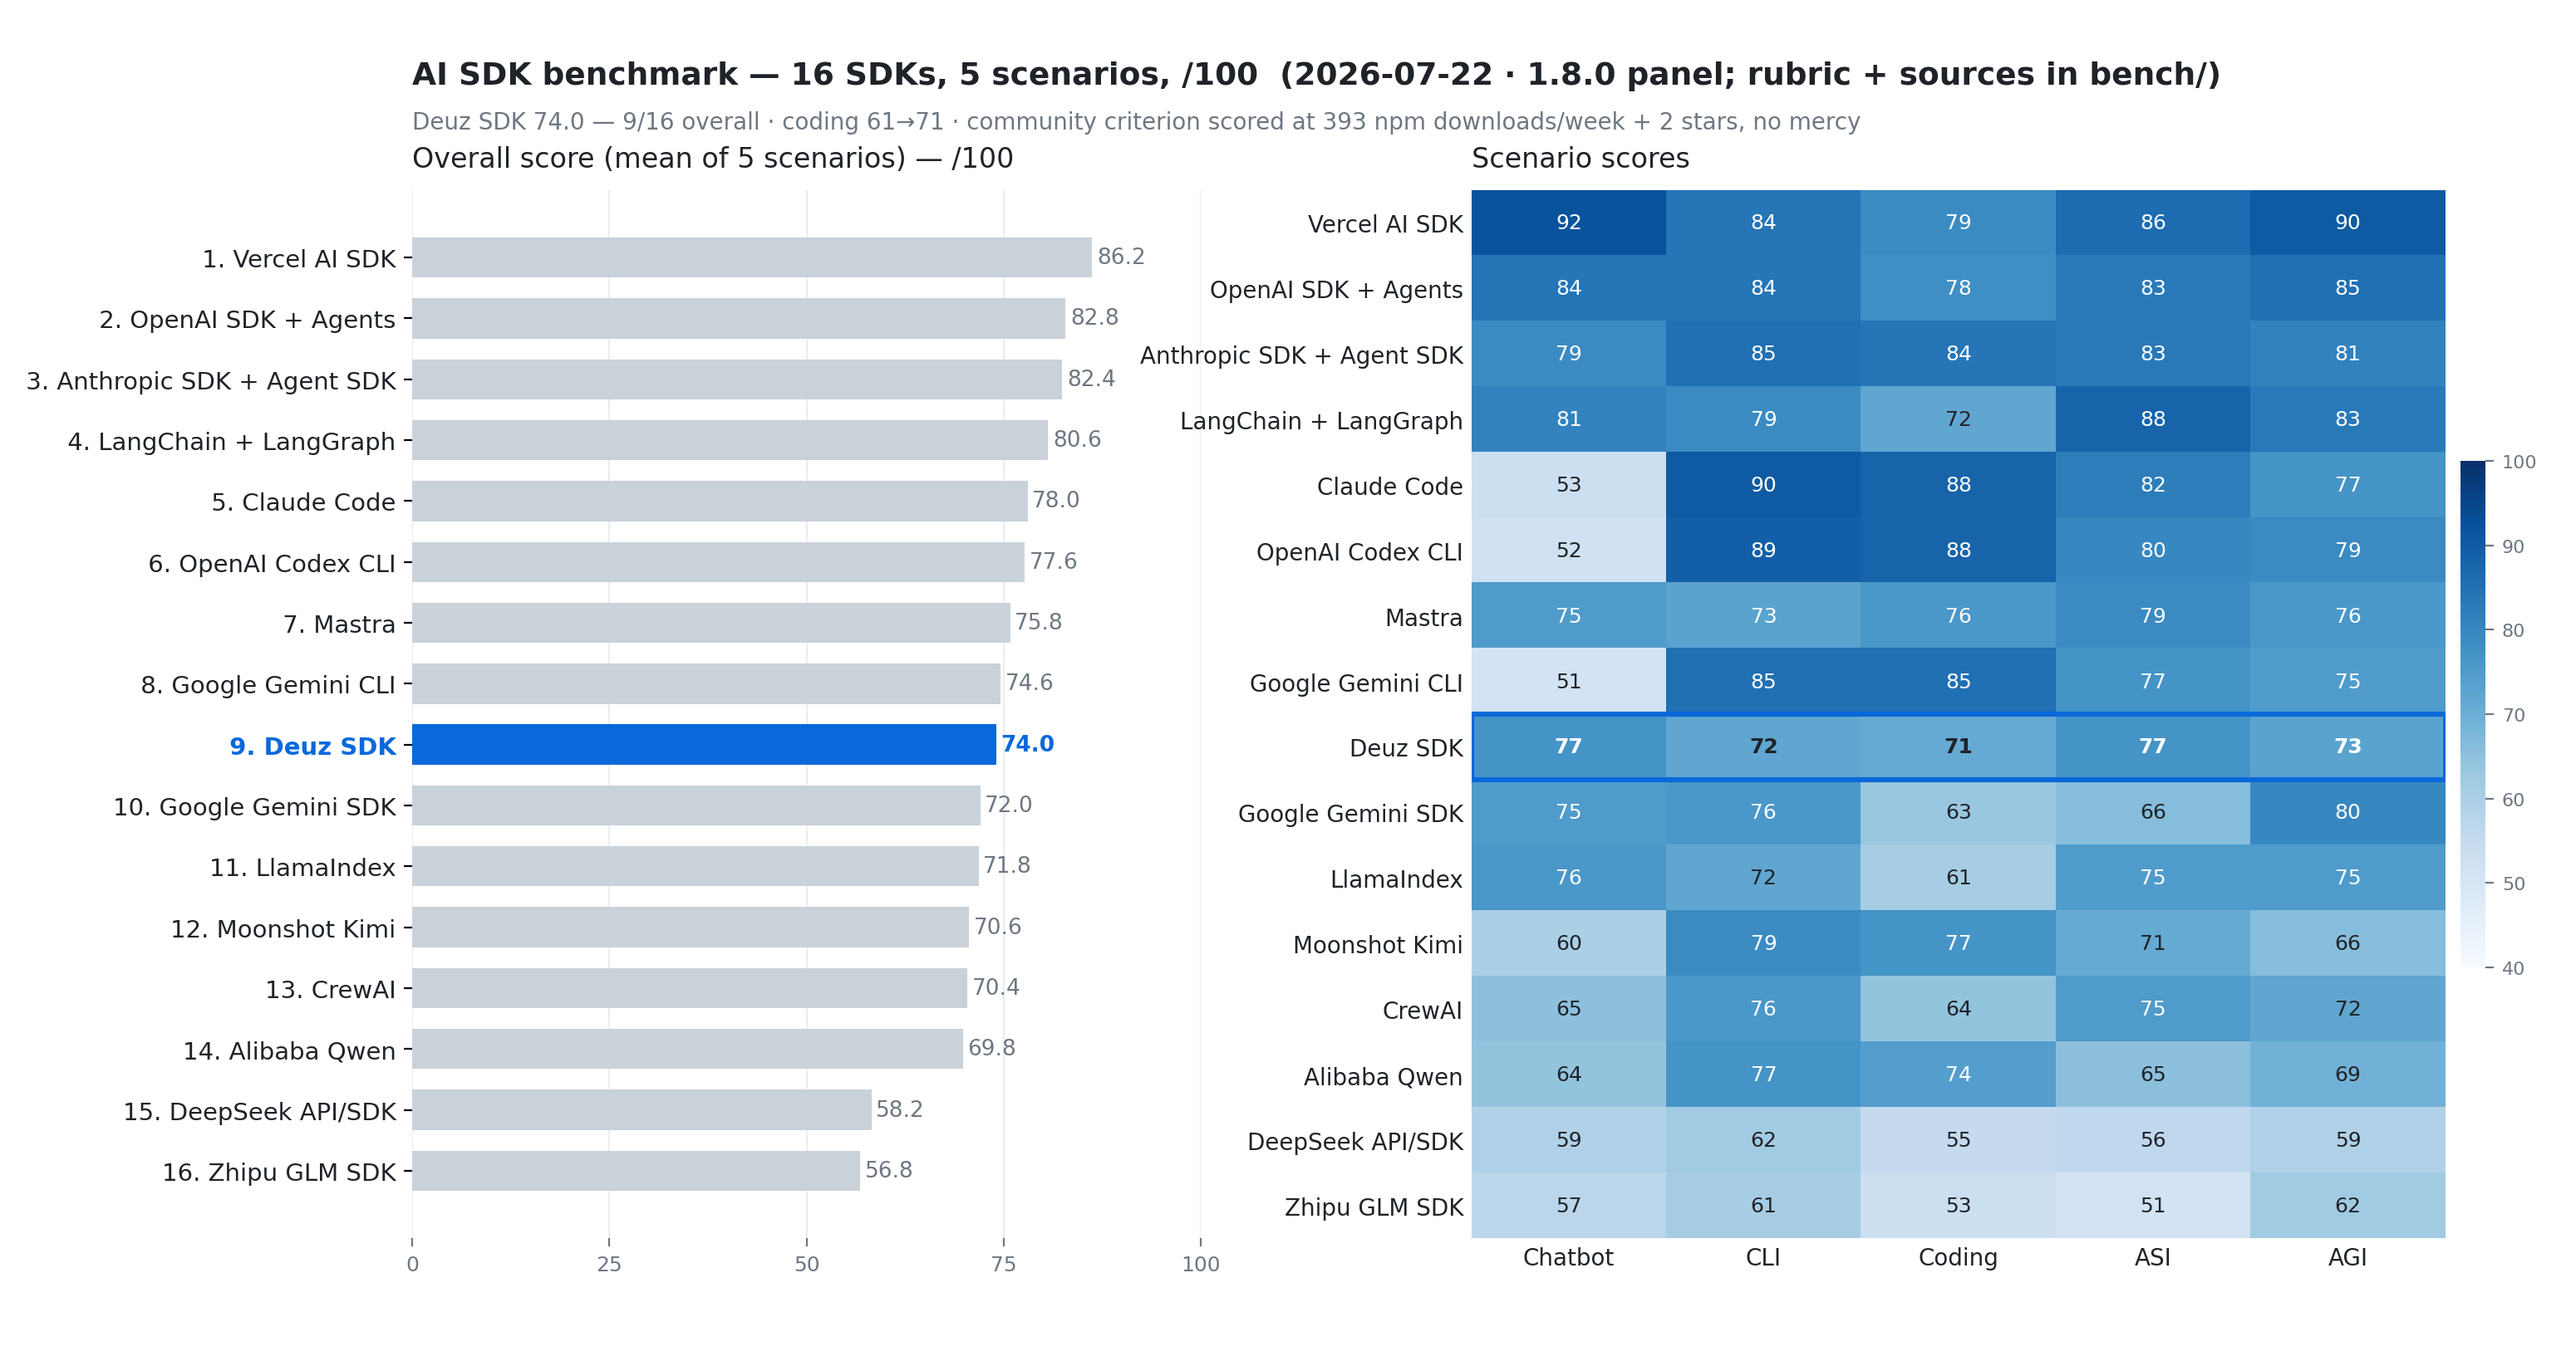
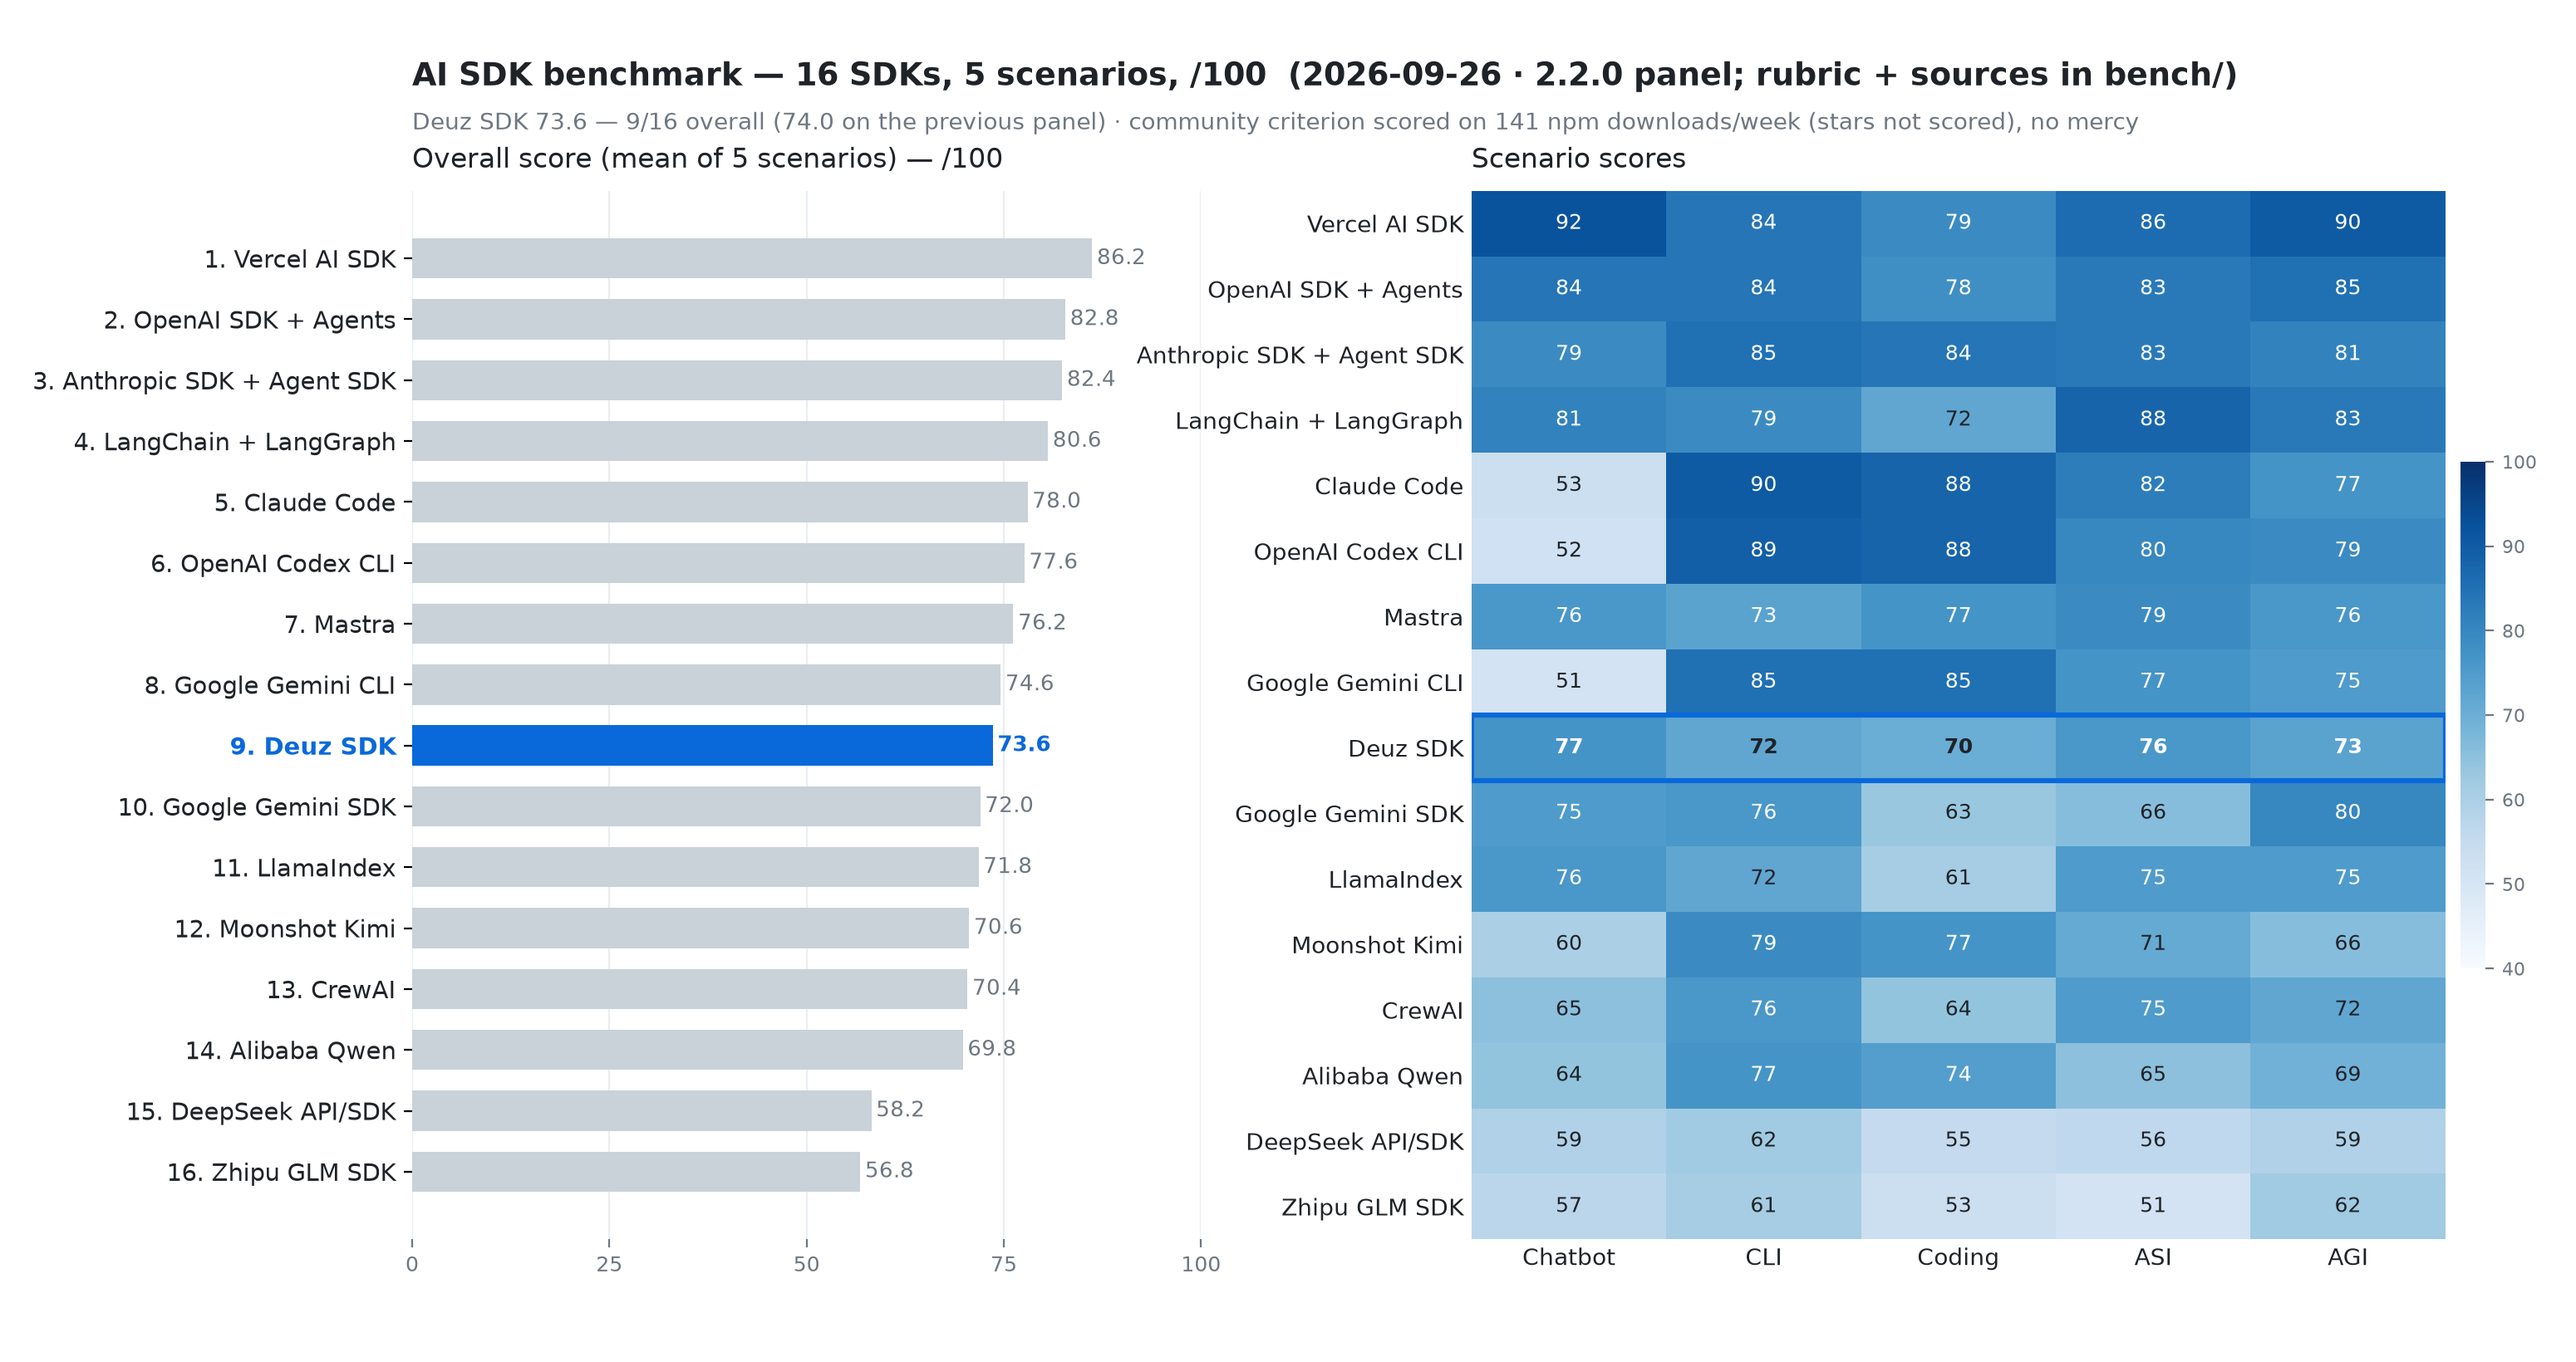
chore(assets): regenerate the benchmark and footprint charts for 2.2.0
chart.py now takes the ranking title, the Deuz headline and rank, and
the footprint subtitle from scores.json and results.json, instead of
hard-coded 1.8.0 text that would go stale. Every footprint bar names
the version it measured, and MB values keep their two decimals.

diff --git a/bench/chart.py b/bench/chart.py
@@ -1,7 +1,8 @@
 #!/usr/bin/env python3
 """Render the Deuz benchmark charts (matplotlib).
 
-Reads bench/scores.json (+ bench/results.json for the footprint panel) and writes:
+Reads bench/scores.json (+ bench/results.json for the footprint panel) and writes the
+charts below. Titles, headline, ranks and version labels all come from the JSON:
   assets/benchmark.png / assets/benchmark-dark.png   — /100 ranking + scenario heatmap
   assets/footprint.png / assets/footprint-dark.png   — install size + cold import (log scale)
 
@@ -10,6 +11,7 @@ Run: python bench/chart.py
 
 import json
 import os
+import re
 
 import matplotlib
 
@@ -55,7 +57,8 @@ def load(name):
 
 def ranking_chart(theme):
     t = THEMES[theme]
-    scores = sorted(load("scores.json")["scores"], key=lambda s: s["average"], reverse=True)
+    data = load("scores.json")
+    scores = sorted(data["scores"], key=lambda s: s["average"], reverse=True)
     names = [s["name"] for s in scores]
     avgs = [s["average"] for s in scores]
     matrix = np.array([[s[k] for k, _ in SCENARIOS] for s in scores], dtype=float)
@@ -117,9 +120,16 @@ def ranking_chart(theme):
     cbar.ax.tick_params(colors=t["muted"], labelsize=8)
     cbar.outline.set_visible(False)
 
-    fig.suptitle("AI SDK benchmark — 16 SDKs, 5 scenarios, /100  (2026-07-22 · 1.8.0 panel; rubric + sources in bench/)",
+    # Title and headline come from scores.json, ranked exactly as the bars above.
+    deuz = scores[deuz_row]
+    previous = f" ({deuz['previousAverage']:.1f} on the previous panel)" if "previousAverage" in deuz else ""
+    npm_weekly = data["communityLive"]["@deuz-sdk/core"]["npmWeekly"]
+    fig.suptitle(f"AI SDK benchmark — {len(scores)} SDKs, {len(SCENARIOS)} scenarios, /100  "
+                 f"({data['date']} · {data['panel']} panel; rubric + sources in bench/)",
                  x=0.16, y=0.955, ha="left", fontsize=13.5, color=t["fg"], fontweight="bold")
-    fig.text(0.16, 0.905, "Deuz SDK 74.0 — 9/16 overall · coding 61→71 · community criterion scored at 393 npm downloads/week + 2 stars, no mercy",
+    fig.text(0.16, 0.905,
+             f"Deuz SDK {deuz['average']:.1f} — {deuz_row + 1}/{len(scores)} overall{previous} · "
+             f"community criterion scored on {npm_weekly} npm downloads/week (stars not scored), no mercy",
              fontsize=10, color=t["muted"])
 
     out = os.path.join(ASSETS, f"benchmark{t['suffix']}.png")
@@ -130,15 +140,14 @@ def ranking_chart(theme):
 
 def footprint_chart(theme):
     t = THEMES[theme]
-    results = load("results.json")["results"]
+    data = load("results.json")
+    results = data["results"]
+    # Every bar names the version it measured; a local pack's "+local" goes to the subtitle.
     names = []
     for r in results:
-        label = r["name"]
-        if label == "@deuz-sdk/core":
-            ver = str(r.get("version", ""))
-            short = ver.split("+")[0] if ver else "?"
-            label = f"@deuz-sdk/core {short}"
-        names.append(label)
+        ver = str(r.get("version", "")).split("+")[0]
+        names.append(f"{r['name']} {ver}" if ver else r["name"])
+    local = [r["name"] for r in results if "+local" in str(r.get("version", ""))]
     mb = [r["installMB"] for r in results]
     ms = [r["importMsMedian"] for r in results]
 
@@ -154,7 +163,9 @@ def footprint_chart(theme):
         ax.barh(y, values, color=colors, height=0.62)
         ax.set_xscale("log")
         for yi, v in enumerate(values):
-            ax.text(v * 1.12, y[yi], f"{v:g} {unit}", va="center", fontsize=9,
+            # results.json stores MB to 2 decimals; keep them, so 10.00 MB does not print as "10".
+            shown = f"{v:.2f}" if unit == "MB" else f"{v:g}"
+            ax.text(v * 1.12, y[yi], f"{shown} {unit}", va="center", fontsize=9,
                     color=t["deuz"] if "deuz" in names[yi] else t["muted"],
                     fontweight="bold" if "deuz" in names[yi] else "normal")
         ax.set_yticks(y, names, fontsize=10, color=t["fg"])
@@ -170,9 +181,16 @@ def footprint_chart(theme):
             spine.set_visible(False)
         ax.set_title(title, color=t["fg"], fontsize=11, loc="left", pad=8)
 
-    date = load("results.json").get("date", "see results.json")
+    date = data.get("date", "see results.json")
     fig.suptitle(f"The cost of the box — bare npm installs, measured {date} (bench/results.json)",
                  x=0.20, y=0.93, ha="left", fontsize=12.5, color=t["fg"], fontweight="bold")
+    machine = data.get("machine", "")
+    node = re.search(r"node(v[\d.]+)", machine)
+    npm = re.search(r"npm([\d.]+)", machine)
+    notes = [f"Node {node.group(1)}" if node else "", f"npm {npm.group(1)} defaults" if npm else "",
+             "cold import = median of 5 runs after 1 warmup",
+             f"{', '.join(local)} from a local npm pack" if local else ""]
+    fig.text(0.20, 0.865, " · ".join(n for n in notes if n), fontsize=9.5, color=t["muted"])
 
     out = os.path.join(ASSETS, f"footprint{t['suffix']}.png")
     fig.savefig(out, dpi=200, facecolor=t["bg"])
